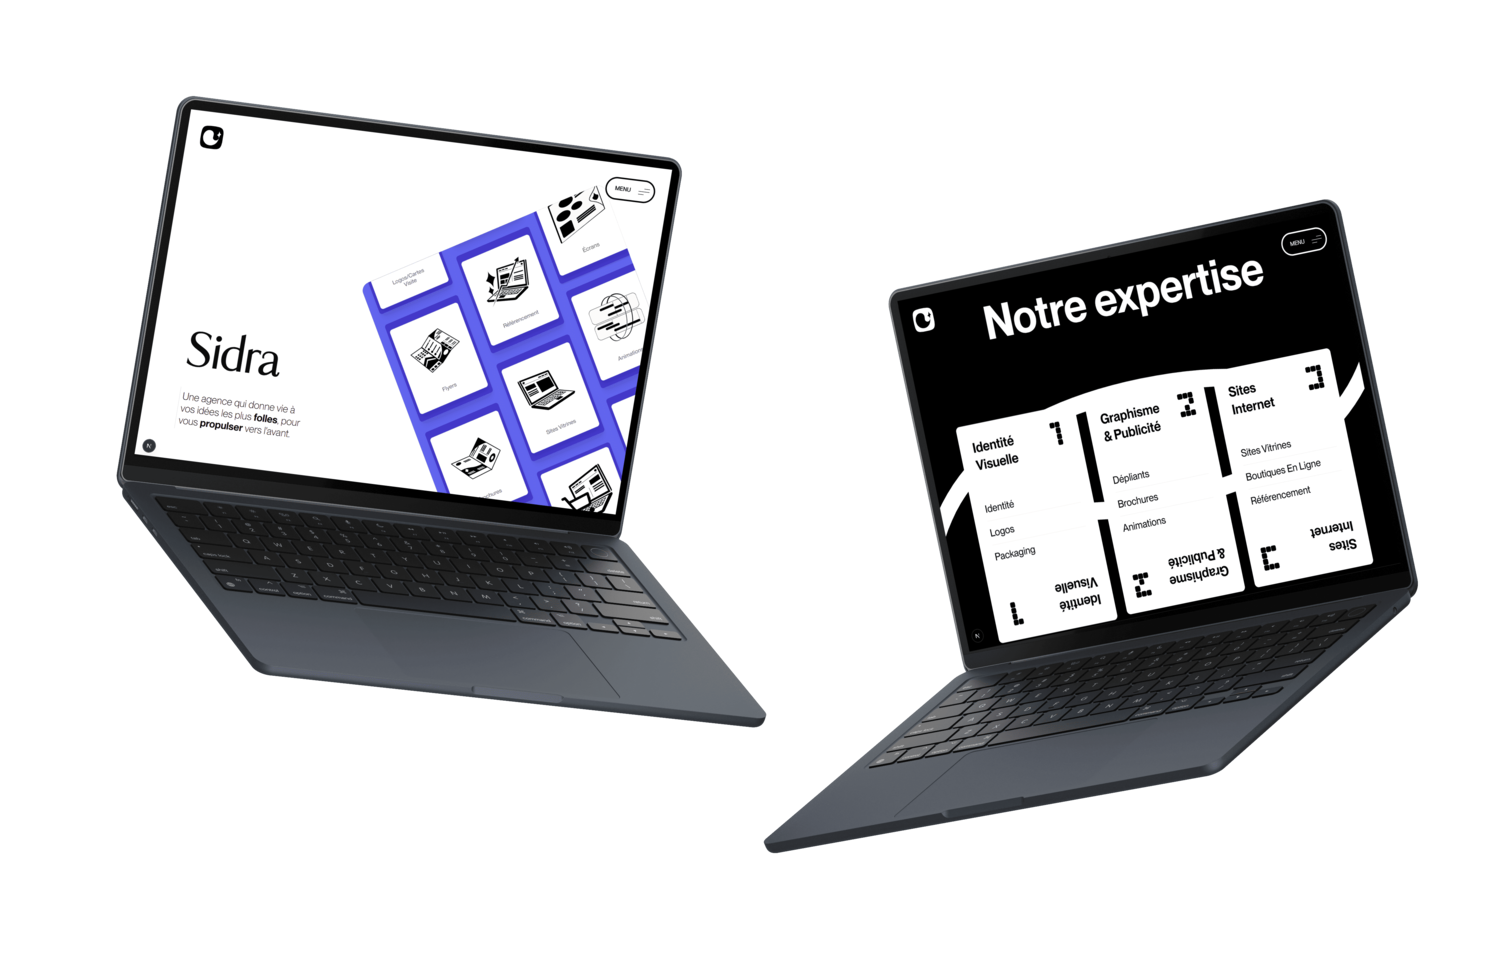
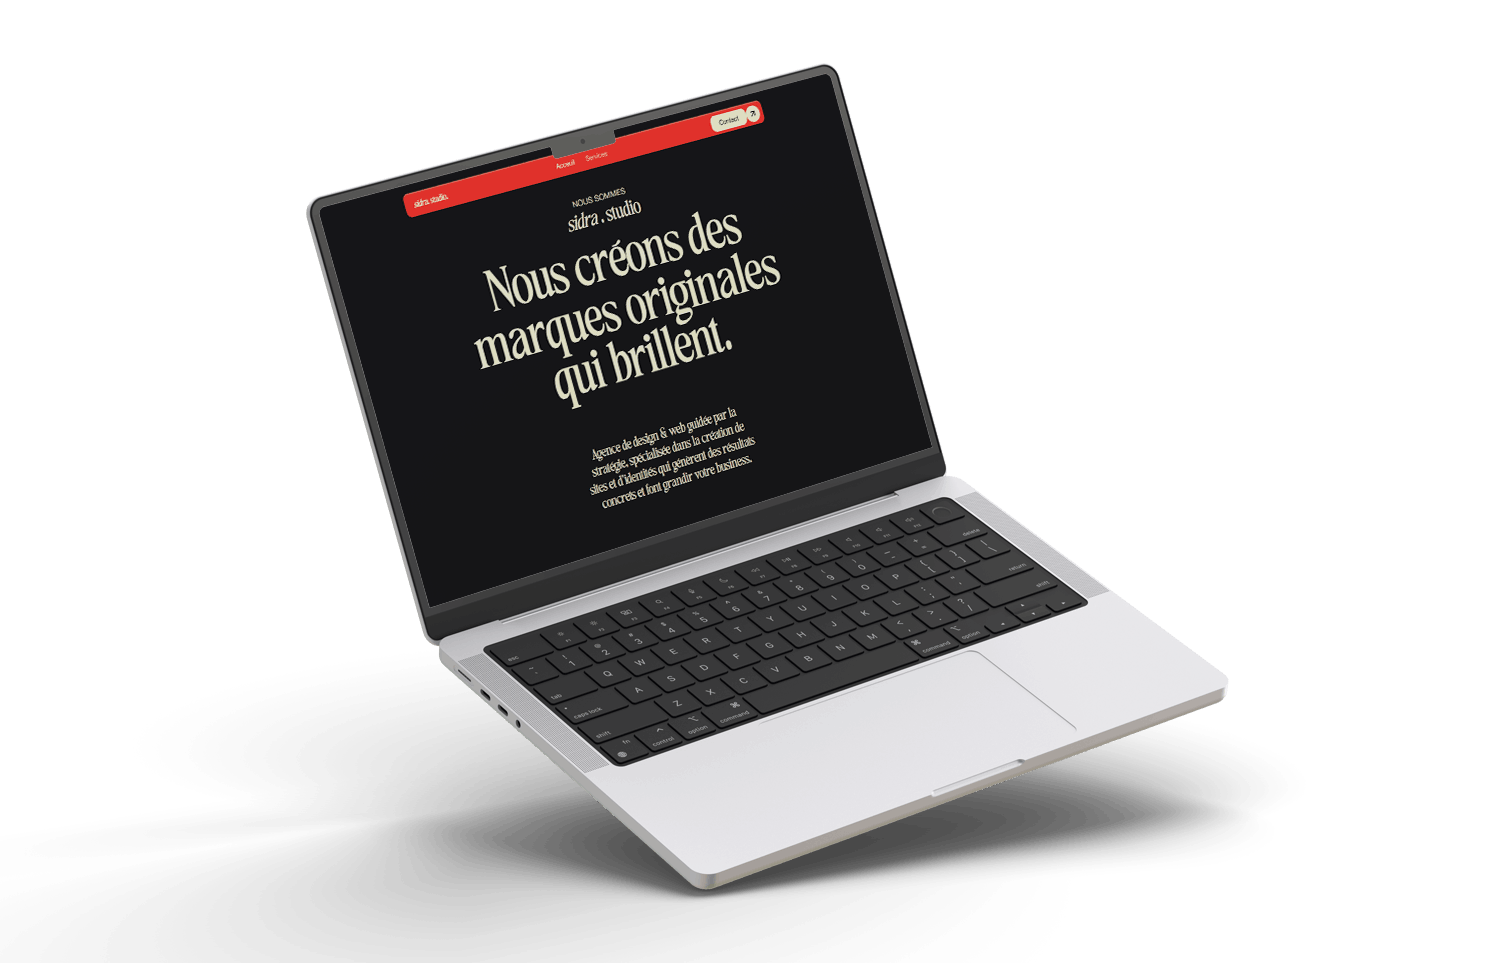
feat(serf) : added the project serf to the portfolio

diff --git a/src/lib/data.ts b/src/lib/data.ts
@@ -102,7 +102,7 @@ export const ProjectsData : Record<string, ProjectsDataType> = {
         bigScreenSrc :'/images/tandem/tandem-big-screen.webp',
         laptopSrc :'/images/tandem/tandem-laptop.webp',
         duration : "4 Mois",
-        startDate : '04/10/2024',
+        startDate : '2025',
         githubRepo : "https://github.com/AnasNEJMI/Tandem",
         stack : ['React', 'Vite', 'InertiaJS', 'Laravel', 'PHP', 'MySQL', 'Shadcn UI', 'TailwindCSS'],
         tech : [
@@ -141,10 +141,10 @@ export const ProjectsData : Record<string, ProjectsDataType> = {
     },
     "sidra": {
         href : 'sidra',
-        title : 'Sidra',
+        title : 'Sidra Studio',
         description : "J'ai collaboré avec Sidra Studio, une agence de design et de branding, pour développer la fondation de leur site Internet, avec un focus sur la perfomance et SEO, et en mettant l'accent sur une présentation claire et élégante. L'expérience utilisateur est portée par des animations fluides et dynamiques réalisées avec GSAP, qui donnent vie aux contenus tout en conservant une navigation intuitive.",
         category : 'Site Vitrine',
-        color : '#4f46e5',
+        color : '#ff3831',
         banner : {
                     src : '/images/sidra/sidra-banner.png',
                     width : 1500,
@@ -173,7 +173,29 @@ export const ProjectsData : Record<string, ProjectsDataType> = {
         bigScreenSrc :'/images/sidra/sidra-big-screen.png',
         laptopSrc :'/images/sidra/sidra-laptop.png',
         duration : "3 Mois",
-        startDate : '10/03/2025',
+        startDate : '2025',
+        githubRepo : "",
+        stack : ['React', 'GSAP', 'Shadcn UI', 'Typescript', 'TailwindCSS'],
+        tech : [],
+        features : []
+    },
+    "serf": {
+        href : 'serf',
+        title : 'Agence SERF',
+        description : "J'ai collaboré avec Agence SERF, une agence de marketing, pour développer la fondation de leur site Internet, avec un focus sur la simplicité et la perfomance, et en mettant l'accent sur une présentation claire et élégante. L'expérience utilisateur est portée par des animations fluides et dynamiques réalisées avec GSAP, qui donnent vie aux contenus tout en conservant une navigation intuitive.",
+        category : 'Site Vitrine',
+        color : '#4f46e5',
+        banner : {
+                    src : '/images/serf/serf-banner.png',
+                    width : 1500,
+                    height : 963,
+                    type : 'image'
+                    },
+        phoneDisplays : [],
+        bigScreenSrc :'/images/serf/serf-big-screen.png',
+        laptopSrc :'/images/serf/serf-laptop.png',
+        duration : "3 Mois",
+        startDate : '2024',
         githubRepo : "",
         stack : ['NextJS', 'GSAP', 'Shadcn UI', 'Typescript', 'TailwindCSS'],
         tech : [],

diff --git a/src/components/contact/index.tsx b/src/components/contact/index.tsx
@@ -60,14 +60,14 @@ const Contact = () => {
             <Link scroll = {false} href={'/projects'} className='font-primary font-semibold text-h5 text-white mt-4'>Projets</Link>
             <Link scroll = {false} href={'/contact'} className='font-primary font-semibold text-h5 text-white mt-1'>contact</Link>
           </div>
-          <div className='flex flex-col w-44 items-start justify-start'>
+          {/* <div className='flex flex-col w-44 items-start justify-start'>
             <div className='flex gap-2 items-end'>
               <span className='font-secondary font-bold text-caption text-zinc-300 uppercase tracking-widest'>Réseaux</span>
               <MoveDownLeft size={16}/>
             </div>
             <Link scroll = {false} href={'https://dribbble.com/AansNEJMI'} className='font-primary font-semibold text-h5 text-white mt-4'>Dribble</Link>
             <Link scroll = {false} href={'https://github.com/AnasNEJMI'} className='font-primary font-semibold text-h5 text-white mt-1'>Github</Link>
-          </div>
+          </div> */}
         </div>
         <div className='flex flex-col gap-8 justify-start flex-1'>
           <div className='flex flex-col items-start justify-start'>

diff --git a/src/pages/projects/serf/index.tsx b/src/pages/projects/serf/index.tsx
@@ -15,8 +15,8 @@ import PhoneDisplays from '@/components/phone-displays';
 import Contact from '@/components/contact';
 import { Globe } from 'lucide-react';
 
-const SidraPage = () => {
-    const data = ProjectsData['sidra'];
+const SerfPage = () => {
+    const data = ProjectsData['serf'];
     const containerRef = useRef(null)
     const laptopDisplayRef = useRef(null);
     const BigScreenDisplayRef = useRef(null);
@@ -140,4 +140,4 @@ const SidraPage = () => {
   )
 }
 
-export default SidraPage
+export default SerfPage

diff --git a/src/lib/routes.ts b/src/lib/routes.ts
@@ -4,5 +4,6 @@ export const Routes : Record<string, string> = {
     "/contact": "Contact",
     "/projects/feetme" : "FeetMe",
     "/projects/tandem" : "Tandem",
-    "/projects/sidra" : "Sidra",
+    "/projects/sidra" : "Sidra Studio",
+    "/projects/serf" : "Agence Serf",
 }
